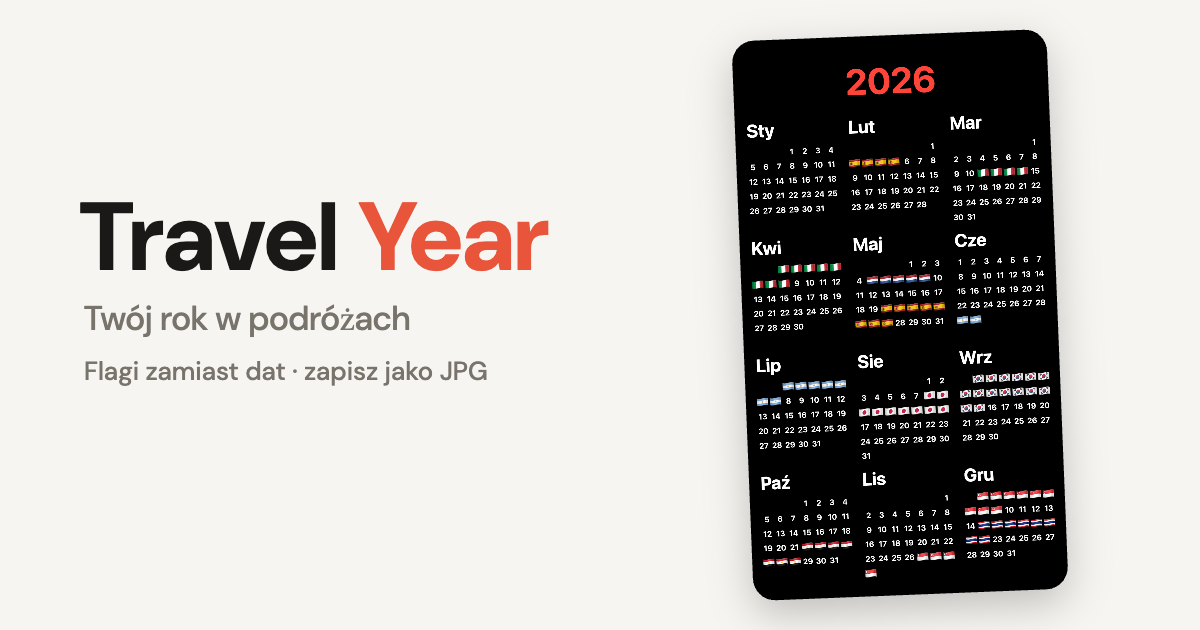
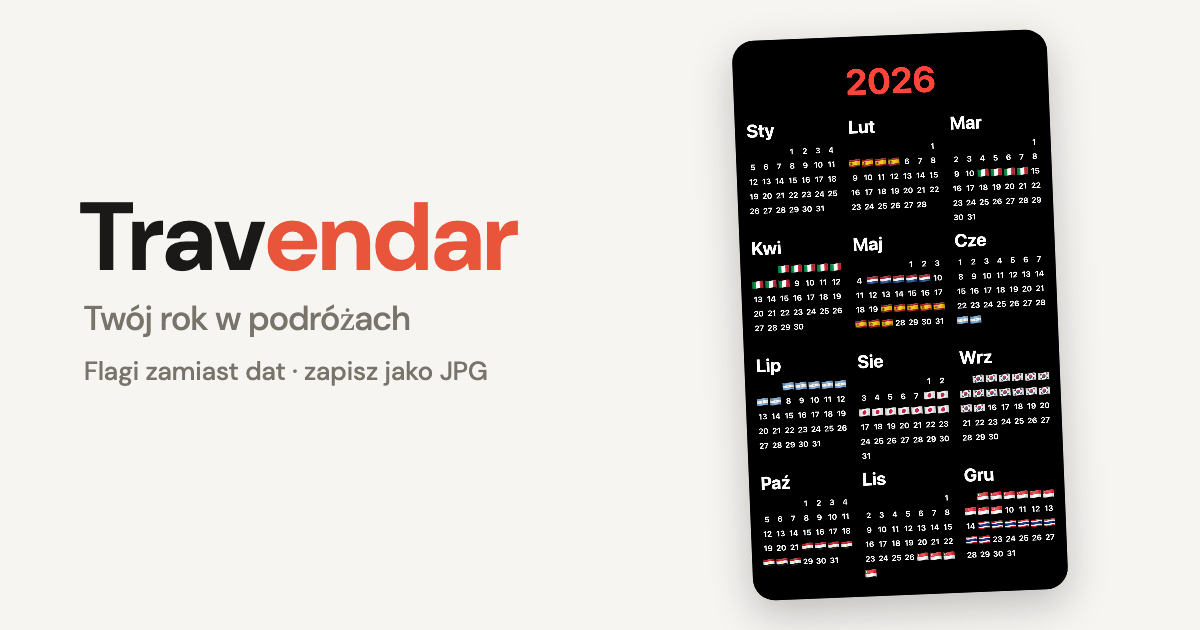
Rename the app from Travel Year to Travendar
- New name in the page title, header (Trav + accent "endar"), meta tags,
  web app manifest, all 13 translations, docs and the asset generator.
- Identifiers follow: storage key travendar.v1, backup format
  travendar-backup, file names travendar-<year>.jpg, service worker cache
  travendar-*, package name, placeholder SITE_URL travendar.example.
- Regenerate the link-preview image (og-image.png) with the new name.
- "travel year" stays where it names the social-media trend.

Changed region(s): [[0.2158, 0.3016, 0.4625, 0.4524]]

diff --git a/index.html b/index.html
@@ -1,13 +1,13 @@
 <!doctype html>
 <!--
-  Travel Year — markup only. Styles live in src/styles/, behaviour in src/ (entry: src/main.js).
+  Travendar — markup only. Styles live in src/styles/, behaviour in src/ (entry: src/main.js).
   Text is filled in from src/i18n.js via data-i18n / data-i18n-aria / data-i18n-ph attributes.
 -->
 <html lang="pl">
 <head>
 <meta charset="utf-8">
 <meta name="viewport" content="width=device-width, initial-scale=1, viewport-fit=cover">
-<title>Travel Year</title>
+<title>Travendar</title>
 <meta name="description" content="Wygeneruj swój travel year – kalendarz całego roku, w którym dni podróży zastępują flagi odwiedzonych krajów.">
 
 <!-- Icons, installable app (PWA). Icon sources: src/assets/icons/icon.svg → scripts/make-assets.html -->
@@ -24,8 +24,8 @@
   and add <meta property="og:url" content="https://<domain>/">.
 -->
 <meta property="og:type" content="website">
-<meta property="og:site_name" content="Travel Year">
-<meta property="og:title" content="Travel Year – Twój rok w podróżach">
+<meta property="og:site_name" content="Travendar">
+<meta property="og:title" content="Travendar – Twój rok w podróżach">
 <meta property="og:description" content="Zaznacz swoje podróże, a dni w kalendarzu zamienią się we flagi odwiedzonych krajów. Zapisz obrazek i pochwal się swoim rokiem.">
 <meta property="og:image" content="src/assets/og-image.png">
 <meta property="og:image:width" content="1200">
@@ -63,7 +63,7 @@
 <div class="app">
   <header>
     <div class="head-row">
-      <h1>Travel <span>Year</span></h1>
+      <h1>Trav<span>endar</span></h1>
       <div class="lang">
         <button class="lang-btn" id="langBtn" type="button" aria-haspopup="menu" aria-expanded="false" aria-controls="langMenu" data-i18n-aria="language">
           <svg viewBox="0 0 24 24" fill="none" stroke="currentColor" stroke-width="1.8" stroke-linecap="round"><circle cx="12" cy="12" r="9"/><path d="M3 12h18M12 3c2.5 2.7 3.8 5.7 3.8 9s-1.3 6.3-3.8 9c-2.5-2.7-3.8-5.7-3.8-9S9.5 5.7 12 3z"/></svg>

diff --git a/src/locales/hi.js b/src/locales/hi.js
@@ -12,7 +12,7 @@ export default {
   saved: 'JPG तस्वीर सहेजी गई',
   saveFailed: 'तस्वीर सहेजी नहीं जा सकी',
   shareFailed: 'शेयर नहीं किया जा सका',
-  thanks: 'Travel Year इस्तेमाल करने के लिए धन्यवाद!',
+  thanks: 'Travendar इस्तेमाल करने के लिए धन्यवाद!',
   donate: 'मुझे एक कॉफ़ी पिलाइए',
   donatePitch:
     'मैं पोलैंड {flag} का एक छात्र हूँ और घूमने के लिए पैसे जमा कर रहा हूँ। हर टिप मुझे अपने सपने पूरे करने में मदद करती है!', // {flag} = the Polish flag
@@ -73,7 +73,7 @@ export default {
   importData: 'इम्पोर्ट',
   exported: 'बैकअप फ़ाइल सहेजी गई',
   importDone: 'फ़ाइल से डेटा लोड हो गया',
-  importFailed: 'यह Travel Year की मान्य बैकअप फ़ाइल नहीं है',
+  importFailed: 'यह Travendar की मान्य बैकअप फ़ाइल नहीं है',
   importConfirm: 'क्या मौजूदा यात्राओं और सेटिंग को फ़ाइल के डेटा से बदलना है?',
 
   // Footer
@@ -83,7 +83,7 @@ export default {
   creditFlags: 'झंडे:',
   creditContributors: 'और योगदानकर्ता',
   licenseNote: 'कोड MIT लाइसेंस के तहत',
-  donateFooter: 'Travel Year पसंद आया? मुझे एक कॉफ़ी पिलाइए',
+  donateFooter: 'Travendar पसंद आया? मुझे एक कॉफ़ी पिलाइए',
 
   // Country picker
   pickContinent: 'महाद्वीप चुनें',

diff --git a/src/locales/uk.js b/src/locales/uk.js
@@ -12,7 +12,7 @@ export default {
   saved: 'Зображення JPG збережено',
   saveFailed: 'Не вдалося зберегти зображення',
   shareFailed: 'Не вдалося поділитися',
-  thanks: 'Дякую, що користуєшся Travel Year!',
+  thanks: 'Дякую, що користуєшся Travendar!',
   donate: 'Пригости мене кавою',
   donatePitch:
     'Я студент із Польщі {flag} і збираю гроші на подорожі. Будь-які чайові допомагають мені здійснювати мрії!', // {flag} = the Polish flag
@@ -73,7 +73,7 @@ export default {
   importData: 'Імпорт',
   exported: 'Файл резервної копії збережено',
   importDone: 'Дані завантажено з файлу',
-  importFailed: 'Це не файл резервної копії Travel Year',
+  importFailed: 'Це не файл резервної копії Travendar',
   importConfirm: 'Замінити поточні подорожі й налаштування даними з файлу?',
 
   // Footer
@@ -83,7 +83,7 @@ export default {
   creditFlags: 'Прапори:',
   creditContributors: 'та учасники',
   licenseNote: 'код за ліцензією MIT',
-  donateFooter: 'Подобається Travel Year? Пригости мене кавою',
+  donateFooter: 'Подобається Travendar? Пригости мене кавою',
 
   // Country picker
   pickContinent: 'Обери континент',

diff --git a/src/locales/ru.js b/src/locales/ru.js
@@ -12,7 +12,7 @@ export default {
   saved: 'Изображение JPG сохранено',
   saveFailed: 'Не удалось сохранить изображение',
   shareFailed: 'Не удалось поделиться',
-  thanks: 'Спасибо, что пользуешься Travel Year!',
+  thanks: 'Спасибо, что пользуешься Travendar!',
   donate: 'Угости меня кофе',
   donatePitch:
     'Я студент из Польши {flag} и коплю деньги на путешествия. Любые чаевые помогают мне осуществлять мечты!', // {flag} = the Polish flag
@@ -73,7 +73,7 @@ export default {
   importData: 'Импорт',
   exported: 'Файл резервной копии сохранён',
   importDone: 'Данные загружены из файла',
-  importFailed: 'Это не файл резервной копии Travel Year',
+  importFailed: 'Это не файл резервной копии Travendar',
   importConfirm: 'Заменить текущие поездки и настройки данными из файла?',
 
   // Footer
@@ -83,7 +83,7 @@ export default {
   creditFlags: 'Флаги:',
   creditContributors: 'и участники',
   licenseNote: 'код под лицензией MIT',
-  donateFooter: 'Нравится Travel Year? Угости меня кофе',
+  donateFooter: 'Нравится Travendar? Угости меня кофе',
 
   // Country picker
   pickContinent: 'Выбери континент',

diff --git a/src/locales/ja.js b/src/locales/ja.js
@@ -12,7 +12,7 @@ export default {
   saved: 'JPG 画像を保存しました',
   saveFailed: '画像を保存できませんでした',
   shareFailed: '共有できませんでした',
-  thanks: 'Travel Year をご利用いただきありがとうございます！',
+  thanks: 'Travendar をご利用いただきありがとうございます！',
   donate: 'コーヒーをおごる',
   donatePitch: 'ポーランド {flag} の学生で、旅行のためにお金を貯めています。いただいたチップは夢を叶える力になります！', // {flag} = the Polish flag
   customize: 'カスタマイズ',
@@ -72,7 +72,7 @@ export default {
   importData: '読み込み',
   exported: 'バックアップファイルを保存しました',
   importDone: 'ファイルからデータを読み込みました',
-  importFailed: '有効な Travel Year のバックアップファイルではありません',
+  importFailed: '有効な Travendar のバックアップファイルではありません',
   importConfirm: '現在の旅行と設定をファイルのデータで置き換えますか？',
 
   // Footer
@@ -82,7 +82,7 @@ export default {
   creditFlags: '国旗：',
   creditContributors: 'および貢献者',
   licenseNote: 'コードは MIT ライセンス',
-  donateFooter: 'Travel Year が気に入ったら、コーヒーをおごってください',
+  donateFooter: 'Travendar が気に入ったら、コーヒーをおごってください',
 
   // Country picker
   pickContinent: '大陸を選択',

diff --git a/src/locales/ar.js b/src/locales/ar.js
@@ -16,7 +16,7 @@ export default {
   saved: 'تم حفظ صورة JPG',
   saveFailed: 'تعذّر حفظ الصورة',
   shareFailed: 'تعذّرت المشاركة',
-  thanks: 'شكرًا لاستخدامك Travel Year!',
+  thanks: 'شكرًا لاستخدامك Travendar!',
   donate: 'اشترِ لي قهوة',
   donatePitch: 'أنا طالب من بولندا {flag} وأجمع المال للسفر. كل إكرامية تساعدني على تحقيق أحلامي!', // {flag} = the Polish flag
   customize: 'تخصيص',
@@ -76,7 +76,7 @@ export default {
   importData: 'استيراد',
   exported: 'تم حفظ ملف النسخة الاحتياطية',
   importDone: 'تم تحميل البيانات من الملف',
-  importFailed: 'هذا ليس ملف نسخة احتياطية صالحًا لـ Travel Year',
+  importFailed: 'هذا ليس ملف نسخة احتياطية صالحًا لـ Travendar',
   importConfirm: 'هل تريد استبدال رحلاتك وإعداداتك الحالية ببيانات الملف؟',
 
   // Footer
@@ -86,7 +86,7 @@ export default {
   creditFlags: 'الأعلام:',
   creditContributors: 'والمساهمون',
   licenseNote: 'الشيفرة بترخيص MIT',
-  donateFooter: 'هل أعجبك Travel Year؟ اشترِ لي قهوة',
+  donateFooter: 'هل أعجبك Travendar؟ اشترِ لي قهوة',
 
   // Country picker
   pickContinent: 'اختر قارة',

diff --git a/src/locales/pt.js b/src/locales/pt.js
@@ -12,7 +12,7 @@ export default {
   saved: 'Imagem JPG guardada',
   saveFailed: 'Não foi possível guardar a imagem',
   shareFailed: 'Não foi possível partilhar',
-  thanks: 'Obrigado por usar o Travel Year!',
+  thanks: 'Obrigado por usar o Travendar!',
   donate: 'Ofereça-me um café',
   donatePitch:
     'Sou um estudante da Polónia {flag} e estou a juntar dinheiro para viajar. Cada gorjeta ajuda-me a realizar os meus sonhos!', // {flag} = the Polish flag
@@ -73,7 +73,7 @@ export default {
   importData: 'Importar',
   exported: 'Ficheiro de cópia de segurança guardado',
   importDone: 'Dados carregados a partir do ficheiro',
-  importFailed: 'Este não é um ficheiro de cópia de segurança válido do Travel Year',
+  importFailed: 'Este não é um ficheiro de cópia de segurança válido do Travendar',
   importConfirm: 'Substituir as viagens e definições atuais pelos dados do ficheiro?',
 
   // Footer
@@ -83,7 +83,7 @@ export default {
   creditFlags: 'Bandeiras:',
   creditContributors: 'e colaboradores',
   licenseNote: 'código com licença MIT',
-  donateFooter: 'Gosta do Travel Year? Ofereça-me um café',
+  donateFooter: 'Gosta do Travendar? Ofereça-me um café',
 
   // Country picker
   pickContinent: 'Escolha um continente',

diff --git a/src/locales/fr.js b/src/locales/fr.js
@@ -12,7 +12,7 @@ export default {
   saved: 'Image JPG enregistrée',
   saveFailed: 'Impossible d’enregistrer l’image',
   shareFailed: 'Impossible de partager',
-  thanks: 'Merci d’utiliser Travel Year !',
+  thanks: 'Merci d’utiliser Travendar !',
   donate: 'Offrez-moi un café',
   donatePitch:
     'Je suis un étudiant polonais {flag} et j’économise pour voyager. Chaque pourboire m’aide à réaliser mes rêves !', // {flag} = the Polish flag
@@ -73,7 +73,7 @@ export default {
   importData: 'Importer',
   exported: 'Fichier de sauvegarde enregistré',
   importDone: 'Données chargées depuis le fichier',
-  importFailed: 'Ce n’est pas un fichier de sauvegarde Travel Year valide',
+  importFailed: 'Ce n’est pas un fichier de sauvegarde Travendar valide',
   importConfirm: 'Remplacer vos voyages et réglages actuels par les données du fichier ?',
 
   // Footer
@@ -83,7 +83,7 @@ export default {
   creditFlags: 'Drapeaux :',
   creditContributors: 'et contributeurs',
   licenseNote: 'code sous licence MIT',
-  donateFooter: 'Vous aimez Travel Year ? Offrez-moi un café',
+  donateFooter: 'Vous aimez Travendar ? Offrez-moi un café',
 
   // Country picker
   pickContinent: 'Choisir un continent',

diff --git a/src/locales/de.js b/src/locales/de.js
@@ -12,7 +12,7 @@ export default {
   saved: 'JPG-Bild gespeichert',
   saveFailed: 'Das Bild konnte nicht gespeichert werden',
   shareFailed: 'Teilen fehlgeschlagen',
-  thanks: 'Danke, dass du Travel Year nutzt!',
+  thanks: 'Danke, dass du Travendar nutzt!',
   donate: 'Spendier mir einen Kaffee',
   donatePitch:
     'Ich bin Student aus Polen {flag} und spare fürs Reisen. Jedes Trinkgeld hilft mir, meine Träume zu verwirklichen!', // {flag} = the Polish flag
@@ -74,7 +74,7 @@ export default {
   importData: 'Importieren',
   exported: 'Sicherungsdatei gespeichert',
   importDone: 'Daten aus der Datei geladen',
-  importFailed: 'Das ist keine gültige Travel-Year-Sicherungsdatei',
+  importFailed: 'Das ist keine gültige Travendar-Sicherungsdatei',
   importConfirm: 'Aktuelle Reisen und Einstellungen durch die Daten aus der Datei ersetzen?',
 
   // Footer
@@ -84,7 +84,7 @@ export default {
   creditFlags: 'Flaggen:',
   creditContributors: 'und Mitwirkende',
   licenseNote: 'Code unter MIT-Lizenz',
-  donateFooter: 'Gefällt dir Travel Year? Spendier mir einen Kaffee',
+  donateFooter: 'Gefällt dir Travendar? Spendier mir einen Kaffee',
 
   // Country picker
   pickContinent: 'Kontinent wählen',

diff --git a/src/ui/backup.js b/src/ui/backup.js
@@ -3,7 +3,7 @@
  * (Advanced → Backup). Useful before clearing browser data or to move to another device.
  *
  * File format:
- *   { "format": "travel-year-backup", "version": 1, "exportedAt": "<ISO time>", "data": <AppState> }
+ *   { "format": "travendar-backup", "version": 1, "exportedAt": "<ISO time>", "data": <AppState> }
  *
  * Imported files are untrusted: they go through sanitizeState() like localStorage does.
  */
@@ -28,7 +28,7 @@ export function initBackup(onImported) {
       data: state,
     };
     const blob = new Blob([JSON.stringify(backup, null, 2)], { type: 'application/json' });
-    downloadBlob(blob, `travel-year-backup-${toISODate(new Date())}.json`);
+    downloadBlob(blob, `travendar-backup-${toISODate(new Date())}.json`);
     showToast(t('exported'));
   });
 
@@ -64,6 +64,6 @@ async function readBackup(file) {
   const payload = json?.format === BACKUP_FORMAT ? json.data : json;
   if (json?.format === BACKUP_FORMAT && json.version > BACKUP_VERSION) throw new Error('Backup from a newer version');
   const next = sanitizeState(payload);
-  if (!next) throw new Error('Not a Travel Year backup');
+  if (!next) throw new Error('Not a Travendar backup');
   return next;
 }

diff --git a/src/locales/es.js b/src/locales/es.js
@@ -12,7 +12,7 @@ export default {
   saved: 'Imagen JPG guardada',
   saveFailed: 'No se pudo guardar la imagen',
   shareFailed: 'No se pudo compartir',
-  thanks: '¡Gracias por usar Travel Year!',
+  thanks: '¡Gracias por usar Travendar!',
   donate: 'Invítame a un café',
   donatePitch:
     'Soy un estudiante de Polonia {flag} y estoy ahorrando para viajar. ¡Cada propina me ayuda a cumplir mis sueños!', // {flag} = the Polish flag
@@ -73,7 +73,7 @@ export default {
   importData: 'Importar',
   exported: 'Copia de seguridad guardada',
   importDone: 'Datos cargados desde el archivo',
-  importFailed: 'Este no es un archivo de copia válido de Travel Year',
+  importFailed: 'Este no es un archivo de copia válido de Travendar',
   importConfirm: '¿Sustituir tus viajes y ajustes actuales por los datos del archivo?',
 
   // Footer
@@ -83,7 +83,7 @@ export default {
   creditFlags: 'Banderas:',
   creditContributors: 'y colaboradores',
   licenseNote: 'código con licencia MIT',
-  donateFooter: '¿Te gusta Travel Year? Invítame a un café',
+  donateFooter: '¿Te gusta Travendar? Invítame a un café',
 
   // Country picker
   pickContinent: 'Elige un continente',

diff --git a/src/config.js b/src/config.js
@@ -9,7 +9,7 @@ export const IMAGE_HEIGHT = 1920;
 export const JPEG_QUALITY = 0.95;
 
 /** localStorage key. Bump the version suffix only together with a migration in state.js. */
-export const STORAGE_KEY = 'travel-year.v1';
+export const STORAGE_KEY = 'travendar.v1';
 
 /**
  * UI languages. `name` is the language's own name (shown in the menu, which sorts them
@@ -42,7 +42,7 @@ export function intlLocale(code) {
  * Public address of the site, printed small at the bottom of the image (Advanced → switch).
  * TODO before release: replace the placeholder with the real domain (also og:url in index.html).
  */
-export const SITE_URL = 'https://travel-year.example/';
+export const SITE_URL = 'https://travendar.example/';
 
 /**
  * Donation page (buycoffee.to), offered after saving the image and in the footer.
@@ -61,7 +61,7 @@ export const YEAR_MAX = 2100;
 export const MAX_TRIPS = 1000;
 
 /** Backup files (Advanced → Backup). Bump `version` only together with a migration in backup.js. */
-export const BACKUP_FORMAT = 'travel-year-backup';
+export const BACKUP_FORMAT = 'travendar-backup';
 export const BACKUP_VERSION = 1;
 export const BACKUP_MAX_BYTES = 1_000_000;
 
